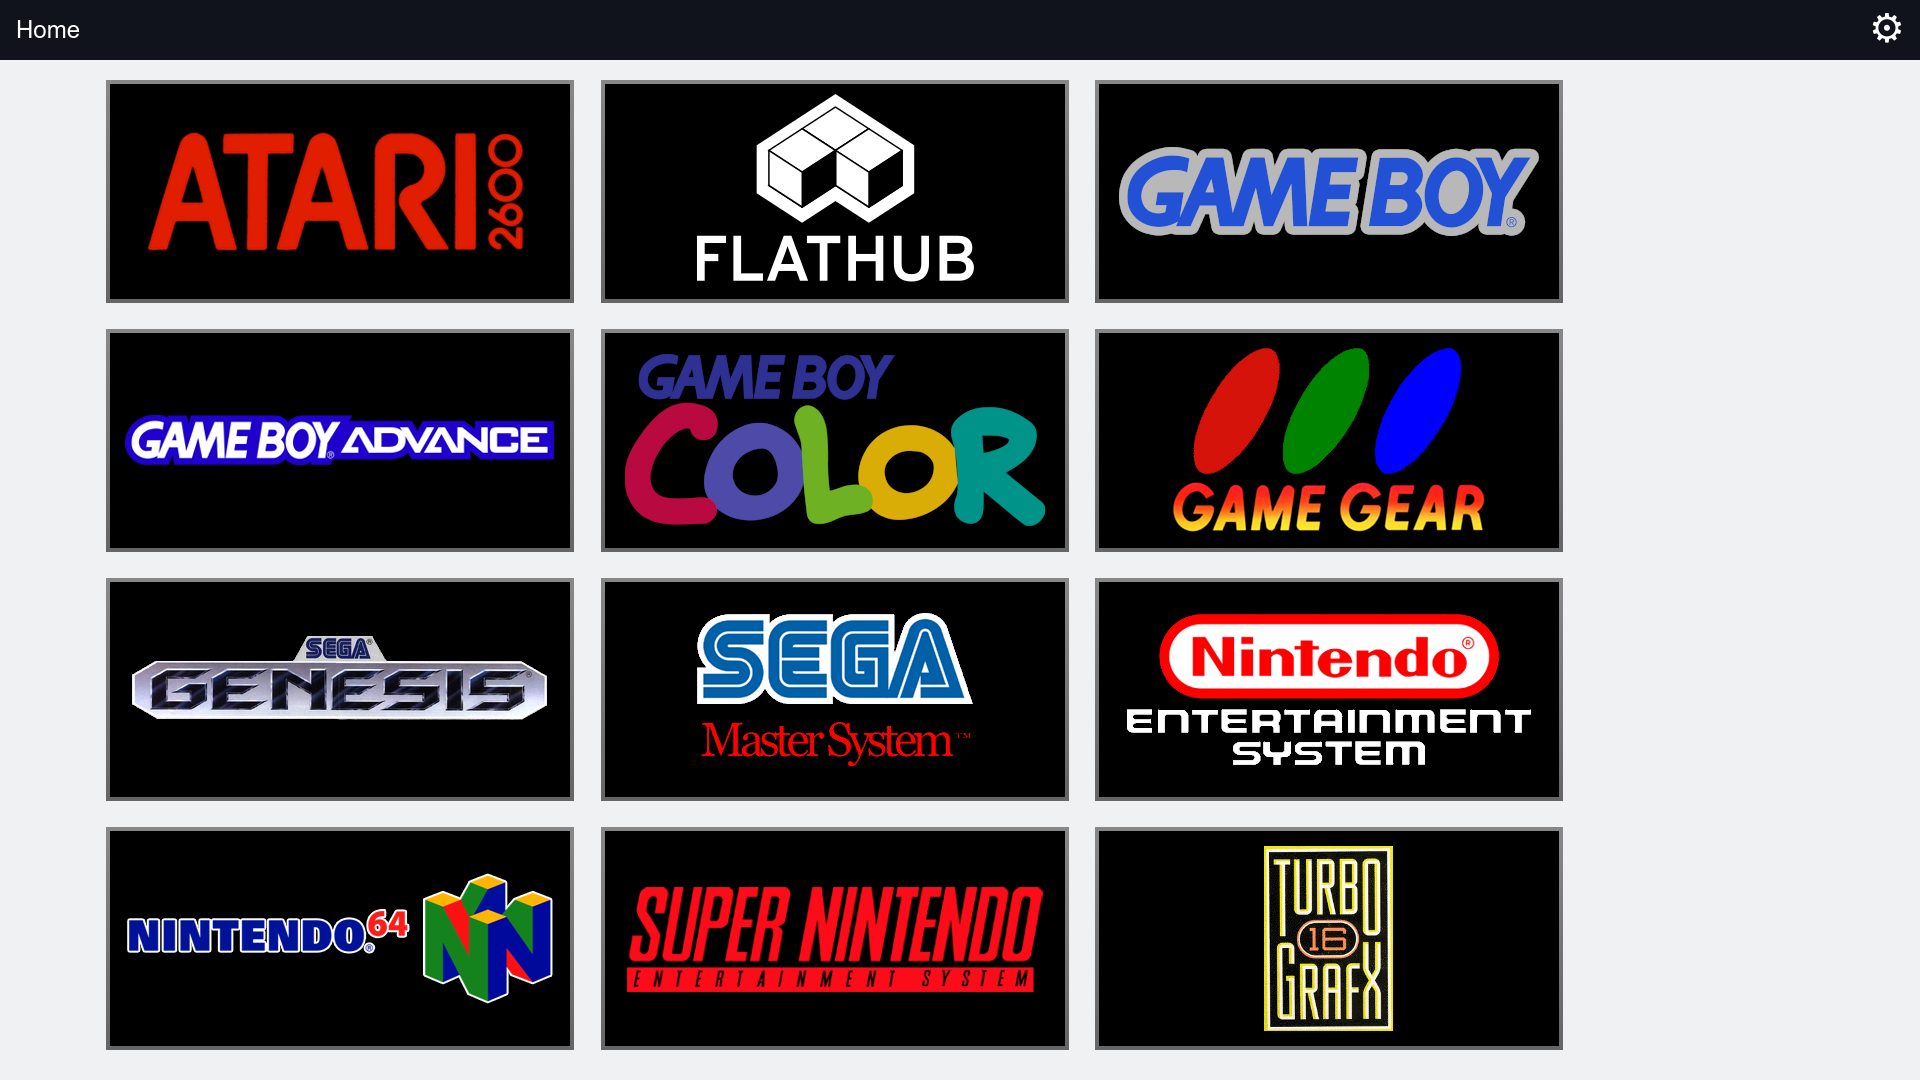
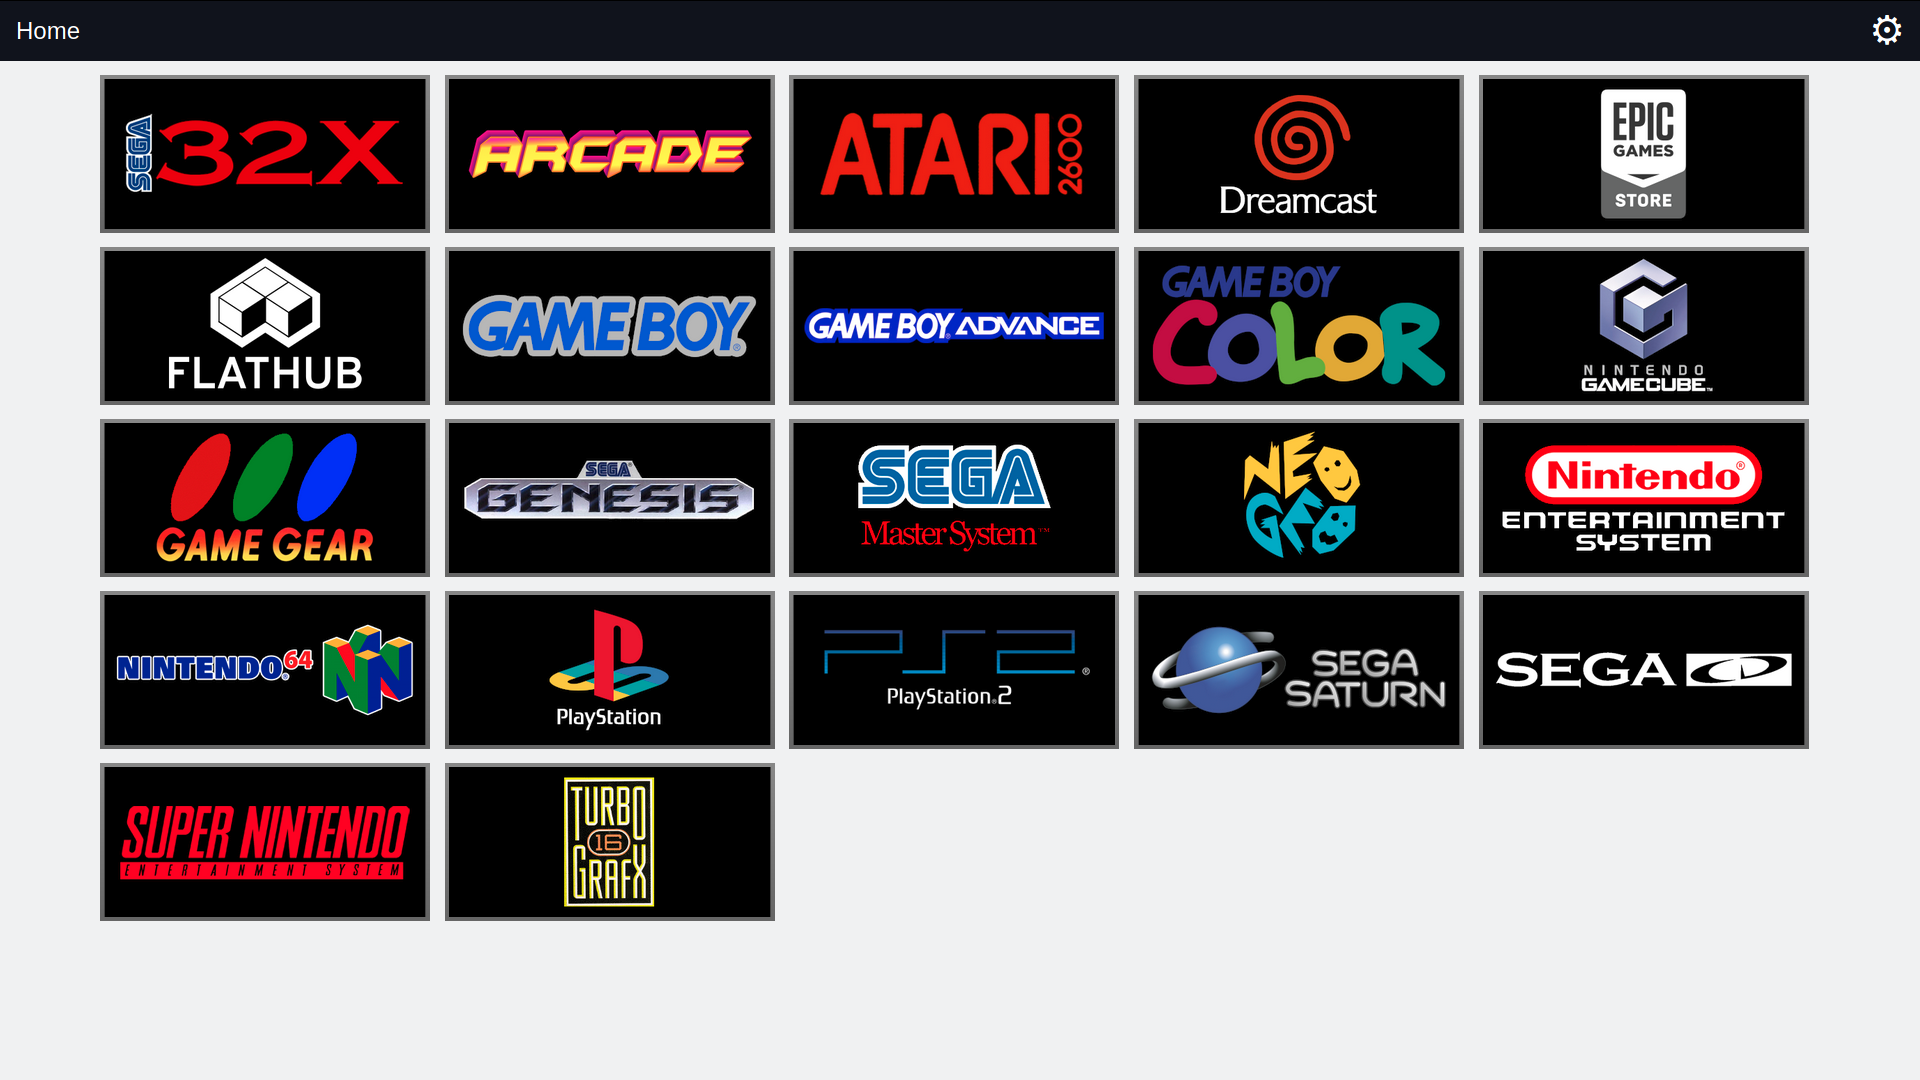
update list of platforms and screenshots

diff --git a/README.md b/README.md
@@ -11,6 +11,10 @@ Steam Buddy also looks in `~/.local/share/steam-buddy/banners/flathub/` for a li
 
 If the application works well please create a new issue with the app id and grid image for permanent whitelisting.
 
+### Install games from the Epic Games Store
+After logging in to your Epic account, you can download and install any of your games from the Epic Games Store.
+
+Games are automatically started with Proton. Not all games will work and currently controllers are not being recognized by Epic Games Store games.
 
 ### Upload ROMs
 
@@ -32,6 +36,8 @@ The following platforms are currently supported:
 - Nintendo 64
 - PlayStation (requires BIOS file)
 - PlayStation 2
+- Sega 32X
+- Sega CD (requires BIOS file)
 - Saturn (BIOS file optional)
 - Super Nintendo
 - TurboGrafx-16
@@ -40,8 +46,8 @@ More platforms will be added over time.
 
 #### Supported formats
 
-CD based platforms (PlayStation 1, Saturn, Dreamcast) require use of .chd format for game files.
-These can be created easily from cue/bin format using the `chdman` tool.
+CD based platforms usually require use of CHD formatted game files, but may also work with ISO files.
+CHD files can be created easily from cue/bin format using the `chdman` tool.
 
 #### BIOS files
 
